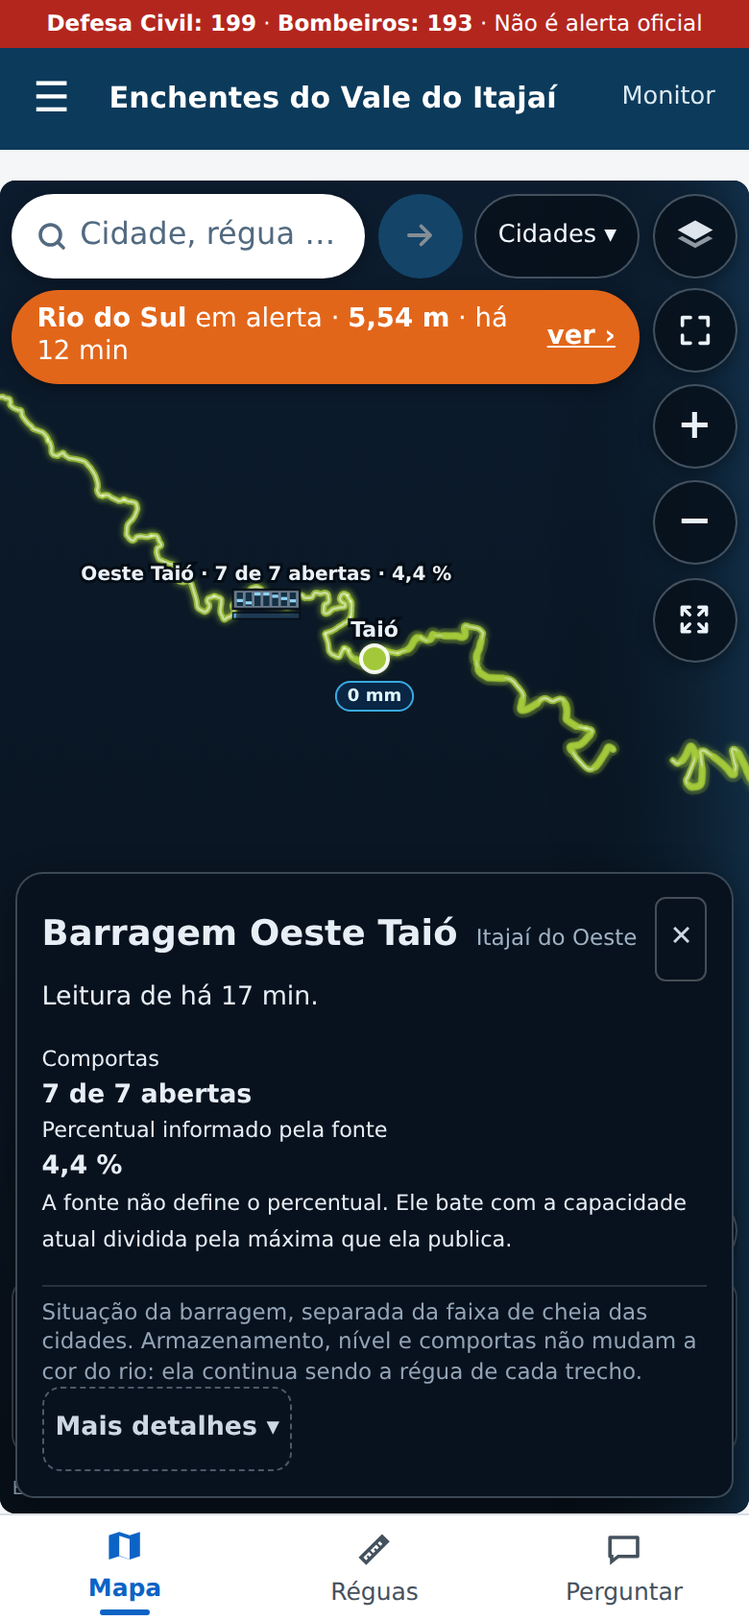
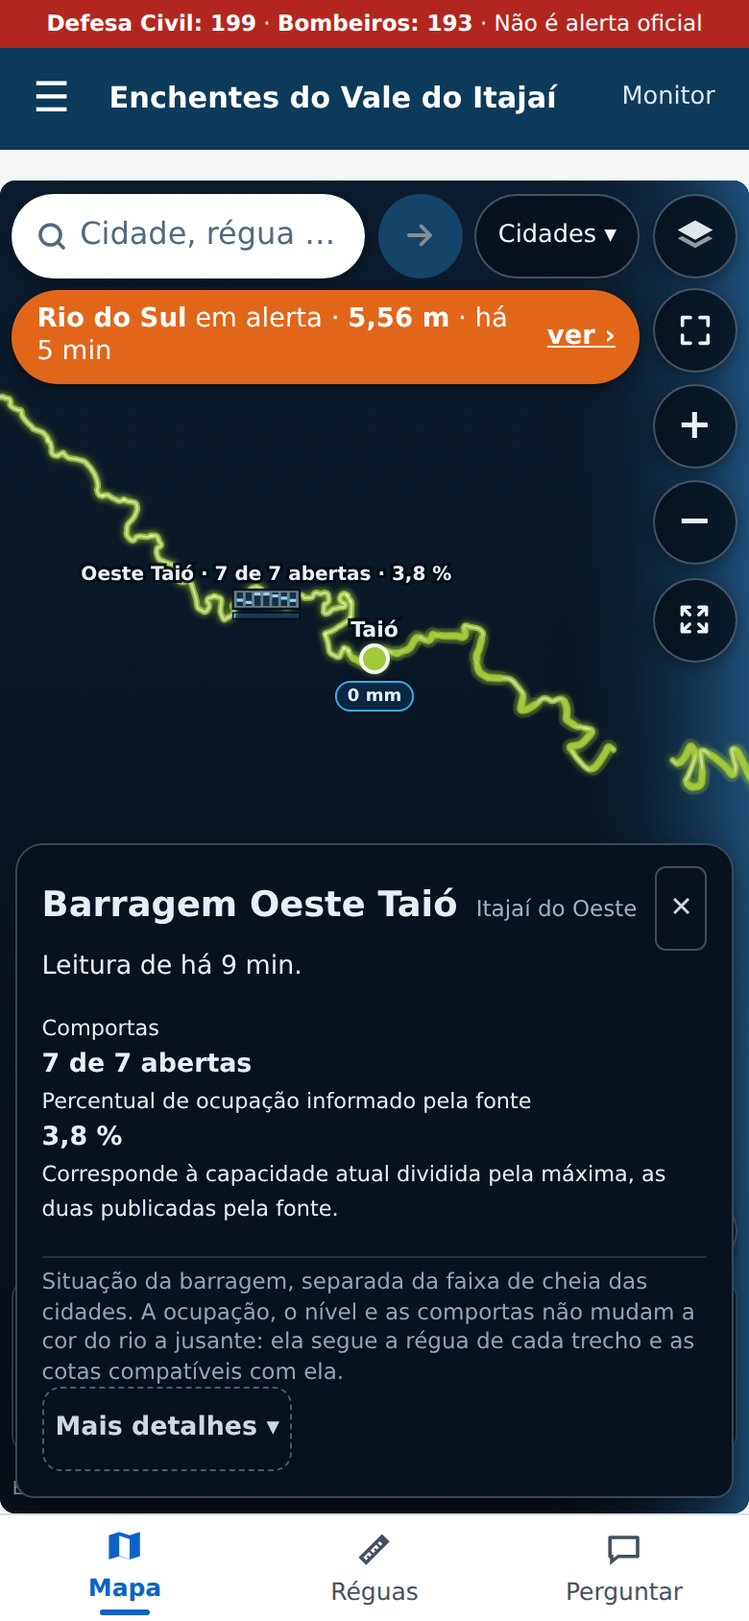
Ajusta os nomes e as ausências do painel das barragens
Percentual de ocupação informado pela fonte (atual ÷ máxima), unidade não
informada, vazões não publicadas, número a jusante sem valor e fora da
classificação, Barragem Norte com dados indisponíveis nesta fonte e
escala azul identificada como informativa. Mesmo nome no cartão Agora e
no chat.

Claude-Session: https://claude.ai/code/session_01V7T8VyjRUeTfNsbRup6EeT

diff --git a/web/src/telas/MonitorBacia.tsx b/web/src/telas/MonitorBacia.tsx
@@ -46,7 +46,7 @@ import { leiturasDaCidade, useTempoReal } from '../dados/tempoReal'
 import { useNivelSc } from '../dados/nivelSc'
 import { useClassificacao } from '../dados/classificacao'
 import { useBarragens } from '../dados/barragens'
-import { AZUL_CHEIO, AZUL_VAZIO, barragensNoMapa, fichaDaBarragem } from '../logica/barragensNoMapa'
+import { AZUL_CHEIO, AZUL_VAZIO, barragensNoMapa, fichaDaBarragem, ROTULO_PERCENTUAL } from '../logica/barragensNoMapa'
 import { leituraEm, serieDaCidade, useSerieRecente } from '../dados/serie'
 import { deBrasilia, idadeMin, textoIdade, type Faixa, frescor, frescorDaCidade } from '../logica/tempoReal'
 import { ROTULO_FAIXA, ACAO_FAIXA } from '../componentes/LegendaFaixas'
@@ -1560,7 +1560,12 @@ export default function MonitorBacia({ municipal = false }: { municipal?: boolea
                 operacionais oficiais; não é grau de cheia e não pinta o rio. */}
             <li>
               <span className={estilos.amostra} style={{ background: `linear-gradient(90deg, ${AZUL_CHEIO} 60%, ${AZUL_VAZIO} 60%)` }} />
-              Barragem: % informado pela fonte (escala própria, não é faixa de cheia)
+              Barragem: ocupação informada pela fonte — escala informativa, sem faixas oficiais; não é faixa de cheia
+            </li>
+            {/* A Norte não está na fonte e o cadastro não tem coordenada dela: sem marcador, só esta linha. */}
+            <li>
+              <span className={estilos.amostra} style={{ background: AZUL_VAZIO }} />
+              Barragem Norte (José Boiteux): dados indisponíveis nesta fonte
             </li>
             {/* O violeta estava no mapa sem entrada aqui: uma cor com
                 significado e sem explicação. Fica FORA da escala de faixas de
@@ -1852,8 +1857,8 @@ export default function MonitorBacia({ municipal = false }: { municipal?: boolea
                 <svg viewBox="0 0 24 24" width="22" height="22"><rect x="3" y="6" width="18" height="7" rx="1" fill="none" stroke="currentColor" strokeWidth="2" /><rect x="3" y="16" width="11" height="3" fill="currentColor" /><rect x="3" y="16" width="18" height="3" fill="none" stroke="currentColor" strokeWidth="1" /></svg>
               </span>
               <label className={estilos.textoCamada} htmlFor="interruptor-armazenamento">
-                <strong>Barragens: armazenamento</strong>
-                <small>% informado pela fonte, em azul; toque na barragem para os detalhes</small>
+                <strong>Barragens: ocupação</strong>
+                <small>Escala informativa, em azul, sem faixas oficiais; toque na barragem para os detalhes</small>
               </label>
               <input id="interruptor-armazenamento" className={estilos.interruptor} type="checkbox" role="switch" checked={mostrarArmazenamento} onChange={(e) => setMostrarArmazenamento(e.target.checked)} />
             </div>
@@ -2228,7 +2233,7 @@ export default function MonitorBacia({ municipal = false }: { municipal?: boolea
           const b = barragensDoMapa.find((x) => x.nome === barragemSel)
           if (!b) return null
           const ficha = fichaDaBarragem(b)
-          const linhas = barragemExpandida ? ficha.linhas : ficha.linhas.filter((l) => l.rotulo === 'Comportas' || l.rotulo === 'Percentual informado pela fonte')
+          const linhas = barragemExpandida ? ficha.linhas : ficha.linhas.filter((l) => l.rotulo === 'Comportas' || l.rotulo === ROTULO_PERCENTUAL)
           return (
             <div className={estilos.painel} data-tapa-mapa>
               <div className={estilos.painelTopo}>
@@ -2249,8 +2254,8 @@ export default function MonitorBacia({ municipal = false }: { municipal?: boolea
                 ))}
               </dl>
               <p className={estilos.painelRessalva}>
-                Situação da barragem, separada da faixa de cheia das cidades. Armazenamento, nível e comportas não
-                mudam a cor do rio: ela continua sendo a régua de cada trecho.
+                Situação da barragem, separada da faixa de cheia das cidades. A ocupação, o nível e as comportas não
+                mudam a cor do rio a jusante: ela segue a régua de cada trecho e as cotas compatíveis com ela.
               </p>
               <button type="button" className={estilos.botaoMais} aria-expanded={barragemExpandida} onClick={() => setBarragemExpandida((v) => !v)}>
                 {barragemExpandida ? 'Menos detalhes ▴' : 'Mais detalhes ▾'}

diff --git a/web/src/logica/barragensNoMapa.test.ts b/web/src/logica/barragensNoMapa.test.ts
@@ -109,7 +109,7 @@ test('funciona com um Map (como o hook devolve) e com N barragens, não só duas
 
 // --- Painel do toque e armazenamento (07/10/2026) -------------------------------------------------------------
 
-import { fichaDaBarragem, textoPercentual } from './barragensNoMapa'
+import { fichaDaBarragem, ROTULO_PERCENTUAL, textoPercentual } from './barragensNoMapa'
 import { montarBarragens } from '../dados/barragens'
 
 /** O corpo publicado às 19h38 de 07/10/2026 (Oeste), pelo mesmo leitor do site. */
@@ -131,13 +131,18 @@ test('o painel mostra o que a fonte publica e "não informado" no resto — nunc
   const f = fichaDaBarragem(b!)
   assert.match(f.situacao, /há 12 min/)
   assert.equal(linha(f, 'Comportas').valor, '7 de 7 abertas')
-  assert.equal(linha(f, 'Percentual informado pela fonte').valor, '4,5 %')
+  assert.equal(ROTULO_PERCENTUAL, 'Percentual de ocupação informado pela fonte')
+  assert.equal(linha(f, ROTULO_PERCENTUAL).valor, '4,5 %')
   assert.equal(linha(f, 'Nível na régua da barragem').valor, '8,97 m')
   assert.match(linha(f, 'Nível na régua da barragem').nota!, /339 m de altitude/)
   assert.match(linha(f, 'Nível na régua da barragem').nota!, /Não se compara com régua de rio/)
-  assert.match(linha(f, 'Capacidade atual / máxima').nota!, /não informa a unidade/)
-  assert.equal(linha(f, 'Vazão de entrada e de saída').valor, null, 'vazão não publicada virou número')
-  assert.equal(linha(f, 'Nível a jusante').valor, null, 'jusante sem referência virou número')
+  assert.match(linha(f, 'Capacidade atual / máxima').nota!, /Unidade não informada/)
+  assert.doesNotMatch(JSON.stringify(f), /m³|hm³|volume útil/, 'unidade ou nome presumido')
+  assert.match(linha(f, ROTULO_PERCENTUAL).nota!, /capacidade atual dividida pela máxima/)
+  assert.equal(linha(f, 'Vazão de entrada e de saída').valor, 'Não publicadas', 'vazão não publicada virou número')
+  assert.equal(linha(f, 'Nível a jusante').valor, 'Sem referência da medição', 'jusante sem referência virou número')
+  assert.doesNotMatch(JSON.stringify(f), /5,14/, 'o número a jusante vazou')
+  assert.match(linha(f, 'Nível a jusante').nota!, /não é usado para classificar/)
   assert.match(linha(f, 'Medido em').valor!, /07\/10\/2026.*19:38.*Brasília/)
   assert.match(linha(f, 'Fonte').valor!, /asthon/)
 })
@@ -153,8 +158,8 @@ test('campo ausente é "não informado"; percentual implausível diz o que veio'
   const [b] = barragensNoMapa([crua], new Date(), 'bacia')
   const f = fichaDaBarragem(b!)
   assert.equal(f.situacao, 'Leitura sem horário: estado não confirmado.')
-  assert.equal(linha(f, 'Percentual informado pela fonte').valor, null)
-  assert.match(linha(f, 'Percentual informado pela fonte').nota!, /812 %, valor implausível/)
+  assert.equal(linha(f, ROTULO_PERCENTUAL).valor, null)
+  assert.match(linha(f, ROTULO_PERCENTUAL).nota!, /812 %, valor implausível/)
   assert.equal(linha(f, 'Nível na régua da barragem').valor, null)
   assert.equal(linha(f, 'Capacidade atual / máxima').valor, null)
   assert.equal(linha(f, 'Fonte').valor, null)
@@ -163,7 +168,7 @@ test('campo ausente é "não informado"; percentual implausível diz o que veio'
 test('acima de 100 %: o valor real e o aviso de que passa da capacidade máxima publicada', () => {
   const crua = montarBarragens({ barragens: [{ nome: 'Z', lat: -27.1, lon: -50, comportas_abertas: 1, comportas_total: 3, percent_use: 104.2 }] }).get('Z')!
   const [b] = barragensNoMapa([crua], new Date(), 'bacia')
-  const p = linha(fichaDaBarragem(b!), 'Percentual informado pela fonte')
+  const p = linha(fichaDaBarragem(b!), ROTULO_PERCENTUAL)
   assert.equal(p.valor, '104 %')
   assert.match(p.nota!, /acima da capacidade máxima publicada/)
   assert.equal(textoPercentual(4.49), '4,5 %')

diff --git a/web/src/logica/barragensNoMapa.ts b/web/src/logica/barragensNoMapa.ts
@@ -158,6 +158,9 @@ export function textoPercentual(p: number): string {
   return `${numero(p, p < 10 ? 1 : 0)} %`
 }
 
+/** Rótulo do percentual: o nome é de ocupação, nunca "volume útil" (a fonte não define o denominador assim). */
+export const ROTULO_PERCENTUAL = 'Percentual de ocupação informado pela fonte'
+
 /** Uma linha do painel da barragem. `valor` null = "não informado". */
 export interface LinhaDaBarragem {
   rotulo: string
@@ -190,14 +193,14 @@ export function fichaDaBarragem(b: BarragemNoMapa): { situacao: string; linhas: 
     : { rotulo: 'Nível na régua da barragem', valor: null, nota: 'Sem a referência da régua coerente na fonte.' }
   const percentual: LinhaDaBarragem = b.percentUso != null
     ? {
-        rotulo: 'Percentual informado pela fonte',
+        rotulo: ROTULO_PERCENTUAL,
         valor: textoPercentual(b.percentUso),
-        nota: 'A fonte não define o percentual. Ele bate com a capacidade atual dividida pela máxima que ela publica' +
+        nota: 'Corresponde à capacidade atual dividida pela máxima, as duas publicadas pela fonte' +
           (b.percentDivergenciaPp ? ` (diferença de ${numero(Math.abs(b.percentDivergenciaPp), 2)} ponto percentual)` : '') +
           (b.percentUso > 100 ? '. Acima de 100 %: acima da capacidade máxima publicada.' : '.'),
       }
     : {
-        rotulo: 'Percentual informado pela fonte',
+        rotulo: ROTULO_PERCENTUAL,
         valor: null,
         nota: b.percentPublicado != null ? `A fonte publicou ${numero(b.percentPublicado, 0)} %, valor implausível.` : undefined,
       }
@@ -205,7 +208,7 @@ export function fichaDaBarragem(b: BarragemNoMapa): { situacao: string; linhas: 
     ? {
         rotulo: 'Capacidade atual / máxima',
         valor: `${numero(b.capacidadeAtual, 1)} de ${numero(b.capacidadeMaxima, 1)}`,
-        nota: 'A fonte não informa a unidade.',
+        nota: 'Unidade não informada.',
       }
     : { rotulo: 'Capacidade atual / máxima', valor: null }
   return {
@@ -215,8 +218,13 @@ export function fichaDaBarragem(b: BarragemNoMapa): { situacao: string; linhas: 
       percentual,
       nivel,
       capacidade,
-      { rotulo: 'Vazão de entrada e de saída', valor: null },
-      { rotulo: 'Nível a jusante', valor: null, nota: 'A fonte publica um número sem referência identificada; ele não é mostrado.' },
+      // Vazão: a fonte não publica. Nunca zero (o `vertido_bruto` vem 0 com as comportas abertas).
+      { rotulo: 'Vazão de entrada e de saída', valor: 'Não publicadas' },
+      {
+        rotulo: 'Nível a jusante',
+        valor: 'Sem referência da medição',
+        nota: 'A fonte publica um número, mas sem a referência dele. Ele não aparece e não é usado para classificar o rio.',
+      },
       { rotulo: 'Medido em', valor: quando },
       { rotulo: 'Fonte', valor: b.fonte ?? null },
     ],

diff --git a/web/src/logica/barragensNaCena.test.ts b/web/src/logica/barragensNaCena.test.ts
@@ -29,7 +29,7 @@ function barragens(percent: number, abertas: number) {
   return barragensNoMapa(montarBarragens({
     barragens: [{
       nome: 'Barragem Oeste Taió', lat: -27.1, lon: -50.0, medido_em: '2026-10-07T19:40:00',
-      altitude_montante_m: 347.97, nivel_na_regua_da_barragem_m: 8.97, zero_da_regua_m: 339,
+      altitude_montante_m: 347.97, nivel_na_regua_da_barragem_m: 8.97, zero_da_regua_m: 339, jusante_m: 5.14,
       percent_use: percent, comportas_abertas: abertas, comportas_total: 7,
       comportas: Array.from({ length: 7 }, (_, i) => ({ nome: `C${i + 1}`, aberta: i < abertas })),
     }],
@@ -50,7 +50,7 @@ function ctxFalso() {
   return ctx as unknown as CanvasRenderingContext2D & { textos: string[] }
 }
 
-test('armazenamento, nível e comportas não mudam a cor do rio', () => {
+test('ocupação, nível, comportas e o número a jusante não mudam a cor do rio', () => {
   const cena = construirCena(el, [rio], tempoReal, agora, 800, 600, null)
   const antes = JSON.stringify(cena.trechos.map((t) => [t.faixa, t.cidadeId, t.animacao]))
   for (const [p, a] of [[0, 0], [50, 3], [104, 7]] as const) {
@@ -66,7 +66,7 @@ test('o rótulo leva o percentual real, nunca o nível em metros', () => {
   desenharBarragens(ctx, cena, barragens(104.2, 7), 1, 1, [], true)
   assert.equal(ctx.textos.length, 1)
   assert.match(ctx.textos[0]!, /104 %/, 'acima de 100 foi cortado')
-  assert.doesNotMatch(ctx.textos[0]!, /8,97|347|339/)
+  assert.doesNotMatch(ctx.textos[0]!, /8,97|347|339|5,14/)
   // Camada desligada: sem percentual no rótulo.
   const sem = ctxFalso()
   desenharBarragens(sem, cena, barragens(104.2, 7), 1, 1, [], false)

diff --git a/web/src/comandos/quinta.test.ts b/web/src/comandos/quinta.test.ts
@@ -81,7 +81,7 @@ test('chuva: os pluviômetros de leitura recente, do mais chuvoso para o menos; 
 test('barragens: comportas e uso como a fonte publica, nunca o nível em metros nem veredito', () => {
   const b = (nome: string, abertas: number, min: number, uso: number | null): Barragem => ({ nome, rio: null, abertas, total: 7, fechadas: [], percentUso: uso, medidoEm: minAtras(min), lat: null, lon: null })
   const t = textoBarragens(new Map([['o', b('Barragem Oeste Taió', 0, 20, 12.5)], ['s', b('Barragem Sul Ituporanga', 7, 200, null)]]), AGORA)
-  assert.match(t, /Barragem Oeste Taió: comportas 7 de 7 fechadas · 12,5% de uso do reservatório, como a fonte publica, às 14:40/)
+  assert.match(t, /Barragem Oeste Taió: comportas 7 de 7 fechadas · 12,5% de ocupação, como a fonte publica, às 14:40/)
   assert.match(t, /Barragem Sul Ituporanga: comportas 7 de 7 abertas, às 11:40 de 06\/10 \(há 3 h 20\) — pode ter mudado desde então/)
   assert.match(t, /não diz se a cheia já passou/)
   assert.ok(!/\d,\d\d m\b/.test(t), 'nenhum nível em metros')

diff --git a/web/src/comandos/bacia.ts b/web/src/comandos/bacia.ts
@@ -79,7 +79,7 @@ export function textoBarragens(barragens: ReadonlyMap<string, Barragem>, agora: 
   const linhas = [...barragens.values()]
     .sort((a, b) => a.nome.localeCompare(b.nome, 'pt-BR'))
     .map((b) => {
-      const uso = b.percentUso != null ? ` · ${b.percentUso.toLocaleString('pt-BR', { maximumFractionDigits: 1 })}% de uso do reservatório, como a fonte publica` : ''
+      const uso = b.percentUso != null ? ` · ${b.percentUso.toLocaleString('pt-BR', { maximumFractionDigits: 1 })}% de ocupação, como a fonte publica` : ''
       const hora = b.medidoEm ? `, ${quando(b.medidoEm, agora)}` : ', sem horário publicado'
       const velha = !b.medidoEm || idadeMin(b.medidoEm, agora) > BARRAGEM_FRESCA_MIN ? ' — pode ter mudado desde então' : ''
       return `${b.nome}: comportas ${rotuloComportas(b)}${uso}${hora}${velha}.`

diff --git a/web/src/componentes/EstadoDasBarragens.tsx b/web/src/componentes/EstadoDasBarragens.tsx
@@ -94,7 +94,7 @@ export default function EstadoDasBarragens({
 
             {b.percentUso !== null ? (
               <span className={estilos.capacidade}>
-                percentual informado pela fonte: <strong>{b.percentUso.toFixed(0)}%</strong>
+                percentual de ocupação informado pela fonte: <strong>{b.percentUso.toFixed(0)}%</strong>
               </span>
             ) : null}
           </div>

diff --git a/docs/BARRAGENS-NO-MONITOR.md b/docs/BARRAGENS-NO-MONITOR.md
@@ -8,14 +8,14 @@ cidade e régua, está em `docs/VINCULOS-DOS-TRACADOS.md`.
 | Antes | Agora |
 |---|---|
 | O marcador da barragem mostrava só as comportas (parede de aço, animação de operação). | Continua igual. Embaixo dele há uma **barra azul** com o percentual informado pela fonte, e o rótulo termina em `· 4,4 %`. |
-| Não dava para tocar na barragem. | O toque abre um **painel compacto** (comportas e percentual). Em **Mais detalhes** aparece tudo o que a fonte publica, e o que ela não publica sai como **"não informado"**. |
+| Não dava para tocar na barragem. | O toque abre um **painel compacto** (comportas e "Percentual de ocupação informado pela fonte"). Em **Mais detalhes** aparece tudo o que a fonte publica; vazões saem **"Não publicadas"** (nunca zero) e o número a jusante sai **"Sem referência da medição"**, sem o valor. |
 | O percentual acima de 100 % sumia (o leitor aceitava só 0–100). | Sai o **valor real**, com a nota "acima da capacidade máxima publicada". Só acima de 200 % o valor é tratado como implausível: vira `null`, e o valor cru fica em `percentPublicado`. |
 | O nível da barragem não saía do módulo. | Sai **só no painel expandido** e sempre com a referência: "Régua própria da barragem: o zero fica a 339 m de altitude…" e "Não se compara com régua de rio nem com a outra barragem". Sem altitude e zero coerentes (régua = altitude − zero, folga de 5 cm), ele não sai. |
-| Camadas: não havia controle para as barragens. | Interruptor **"Barragens: armazenamento"** (`interruptor-armazenamento`) e item na legenda: "Barragem: % informado pela fonte (escala própria, não é faixa de cheia)". |
-| Cartão "Agora" (Taió, Ituporanga, Rio do Sul): "reservatório em X % da capacidade". | "percentual informado pela fonte: X %". |
+| Camadas: não havia controle para as barragens. | Interruptor **"Barragens: ocupação"** (`interruptor-armazenamento`) e itens na legenda: "Barragem: ocupação informada pela fonte — escala informativa, sem faixas oficiais; não é faixa de cheia" e "Barragem Norte (José Boiteux): dados indisponíveis nesta fonte". |
+| Cartão "Agora" (Taió, Ituporanga, Rio do Sul): "reservatório em X % da capacidade". Chat: "X % de uso do reservatório". | Cartão: "percentual de ocupação informado pela fonte: X %". Chat: "X % de ocupação, como a fonte publica". |
 
 **O que não muda:**
-- a **cor do rio** continua sendo a da régua de cada trecho. Percentual, nível e comportas não entram na classificação (teste `logica/barragensNaCena.test.ts`);
+- a **cor do rio a jusante** continua sendo a da régua de cada trecho, com as cotas compatíveis com ela. Ocupação, nível, comportas e o número a jusante não entram na classificação (teste `logica/barragensNaCena.test.ts`);
 - a animação das comportas segue a regra de antes: estado conhecido, leitura fresca (≤ 60 min) e respeito ao "reduzir movimento";
 - o percentual **não** controla velocidade de nada.
 
@@ -27,22 +27,22 @@ de 07/10/2026 20:08 (Brasília).
 
 | Campo | Oeste (Taió) | Sul (Ituporanga) | Norte (José Boiteux) | No painel |
 |---|---|---|---|---|
-| Publicada pela fonte | sim | sim | **não**: lista vazia para Ibirama (4207106) e Blumenau (4202404) em 05/09/2026 | Norte fora do mapa e do painel |
+| Publicada pela fonte | sim | sim | **não**: lista vazia para Ibirama (4207106) e Blumenau (4202404) em 05/09/2026 | Norte: "dados indisponíveis nesta fonte", na legenda. Sem marcador, porque nenhum arquivo do repositório tem a coordenada dela (`hidraulica.json` só traz o município) |
 | Coordenada | −27,0974, −50,0388 | −27,5039, −49,5536 | — | marcador |
 | Nível na régua da barragem | 8,93 m | 20,52 m | — | "Nível na régua da barragem" com zero e altitude |
 | Zero da régua | 339 m | 370 m | — | na nota do nível |
 | Altitude da superfície (`altitude_montante_m`) | 347,93 m | 390,52 m | — | na nota do nível, em metros acima do nível do mar |
 | Coerência régua = altitude − zero | exata | exata | — | condição para mostrar o nível |
-| `percent_use` | 4,40 % | 25,09 % | — | "Percentual informado pela fonte" |
-| Definição do percentual | a fonte **não define** | idem | — | nota: "Ele bate com a capacidade atual dividida pela máxima que ela publica" |
+| `percent_use` | 4,40 % | 25,09 % | — | "Percentual de ocupação informado pela fonte" |
+| Definição do percentual | a fonte **não define** | idem | — | nota: "Corresponde à capacidade atual dividida pela máxima, as duas publicadas pela fonte". Nunca "volume útil" |
 | atual ÷ máxima × 100 | 4,40 (diferença 0,00 pp) | 25,00 (diferença 0,09 pp) | — | a nota traz a diferença em pp quando ela não é zero |
-| Capacidade atual / máxima | 4,40 / 99,96 | 26,01 / 104,03 | — | "Capacidade atual / máxima", com "A fonte não informa a unidade" |
-| Vazão de entrada | não publicada | não publicada | — | "não informado" |
-| Vazão de saída | não publicada (`vertido_bruto` = 0 com 12 comportas abertas: **não é** vazão) | idem | — | "não informado" |
-| Nível a jusante (`jusante_m`) | 5,12 | 141,54 | — | "não informado", com a nota de que a fonte publica um número **sem referência identificada** (as duas grandezas não batem entre si) |
+| Capacidade atual / máxima | 4,40 / 99,96 | 26,01 / 104,03 | — | "Capacidade atual / máxima", com "Unidade não informada" (nada de m³ presumido) |
+| Vazão de entrada | não publicada | não publicada | — | "Não publicadas" |
+| Vazão de saída | não publicada (`vertido_bruto` = 0 com 12 comportas abertas: **não é** vazão) | idem | — | "Não publicadas" (nunca zero) |
+| Nível a jusante (`jusante_m`) | 5,12 | 141,54 | — | "Sem referência da medição", sem o número, com a nota de que ele não é usado para classificar o rio (as duas grandezas não batem entre si) |
 | Comportas | 7 de 7 abertas | 5 de 5 abertas | — | "Comportas", contadas pela lista (sem o campo `aberta` = fechada) |
 | Horário | `measured_at` UTC, convertido para Brasília | idem | — | "Medido em" (data e hora de Brasília) e "Leitura de há N min" |
-| Faixas operacionais oficiais | **nenhuma tabela** no repositório | nenhuma | — | sem categorias: só número e barra azul |
+| Faixas operacionais oficiais | **nenhuma tabela** no repositório | nenhuma | — | sem categorias: só número e barra azul, identificada como escala informativa |
 
 **Pendências de dados**, que não se resolvem no código:
 1. **Barragem Norte:** nenhuma fonte pública conhecida publica comportas ou armazenamento.
@@ -55,6 +55,7 @@ de 07/10/2026 20:08 (Brasília).
 
 ## Escala própria
 
+- Escala **informativa** de ocupação, sem faixas oficiais e sem rótulos de atenção, alerta ou emergência.
 - Barra horizontal sob o marcador: trilho `rgba(70,120,170,0.35)` e preenchimento `rgb(90,170,240)` (`AZUL_VAZIO` e `AZUL_CHEIO` em `logica/barragensNoMapa.ts`). É azul de propósito, porque não é cor de faixa.
 - 0 a 100 % enche a barra. Acima de 100 %, a barra fica cheia com um traço extra na ponta, e o número mostra o valor real.
 - Leitura velha (> 60 min): a barra fica com opacidade 0,5, o painel diz "Leitura antiga (há N h): pode ter mudado desde então" e a animação para. Sem horário: "Leitura sem horário: estado não confirmado".
@@ -73,3 +74,4 @@ de 07/10/2026 20:08 (Brasília).
 `docs/prints/barragens-2026-10-07/`:
 - `barr-compacto.png`: toque na Barragem Oeste, no celular;
 - `barr-expandido.png`: o mesmo painel em "Mais detalhes".
+- `barr-leitura-antiga.png`: a mesma barragem com leitura de 3 h 38. O painel diz "Leitura antiga", o rótulo diz "sem leitura fresca" e o rio fica cinza.

diff --git a/CLAUDE.md b/CLAUDE.md
@@ -171,16 +171,19 @@ Os JSONs em `data/` são a **fonte de verdade**. O site lê deles; scripts escre
   `docs/AUDITORIA-REGUAS-2026-10-06.md`.
 
 ### Barragens no Monitor — REGRA (07/10/2026, com `monitor-autorizado`)
-- Toque no marcador abre o painel (compacto: comportas e percentual; "Mais detalhes": o resto). O que a fonte não
-  publica sai **"não informado"** (vazão, jusante sem referência, Barragem Norte). Auditoria em
+- Toque no marcador abre o painel (compacto: comportas e percentual; "Mais detalhes": o resto). Ajustes do Jefferson
+  (08/10/2026): vazões **"Não publicadas"** (nunca zero); capacidade com **"Unidade não informada"** (nada de m³);
+  número a jusante sem o valor, **fora de qualquer classificação** até ter a referência da medição; Barragem Norte
+  **"dados indisponíveis nesta fonte"**, na legenda (sem coordenada, sem marcador). Auditoria em
   `docs/BARRAGENS-NO-MONITOR.md`.
-- O percentual se chama **"percentual informado pela fonte"** (não "volume útil"), com escala **azul** própria. Sem
-  tabela oficial da barragem, nada de atenção, alerta ou emergência. Acima de 100 % sai o valor real; acima de 200 % é
-  implausível.
+- O percentual se chama **"Percentual de ocupação informado pela fonte"** e corresponde a atual ÷ máxima (nunca "volume
+  útil"). Escala **azul informativa**, sem faixas oficiais: nada de atenção, alerta ou emergência. Acima de 100 % sai
+  o valor real; acima de 200 % é implausível. Reservatório sem preenchimento até haver contorno confiável.
 - O nível da barragem só sai no painel, com zero e altitude coerentes (régua = altitude − zero) e o aviso de que não
   se compara com régua de rio. Nível nunca vira volume sem curva cota-volume.
-- **Barragem não pinta o rio.** Percentual, nível e comportas não mudam a classificação nem a correnteza
-  (`barragensNaCena.test.ts`). Polígono de reservatório só com geometria oficial, nunca buffer do rio.
+- **Barragem não pinta o rio.** Ocupação, nível e comportas não mudam a classificação nem a correnteza; o trecho a
+  jusante segue a própria régua e as cotas compatíveis com ela (`barragensNaCena.test.ts`). Polígono de reservatório
+  só com geometria oficial, nunca buffer do rio.
 
 ### Classificação estadual × municipal — REGRA (decisões de 07/10/2026)
 - Duas classificações **independentes** por cidade. O motor é `scripts/classificar_reguas.py`; o relatório está em

diff --git a/README.md b/README.md
@@ -481,8 +481,9 @@ o projeto.
 ## Pendências
 
 - [x] **Barragens no Monitor: painel e armazenamento em escala própria (07/10/2026, em PR, sem merge).** O toque no marcador
-  abre comportas e o percentual informado pela fonte; "Mais detalhes" mostra o nível na régua da barragem (com zero e
-  altitude), capacidade sem unidade, horário e fonte, e "não informado" para vazão e jusante. Barra azul sob o marcador,
+  abre comportas e o "Percentual de ocupação informado pela fonte" (atual ÷ máxima); "Mais detalhes" mostra o nível na
+  régua da barragem (com zero e altitude), capacidade com "Unidade não informada", horário e fonte, vazões "Não
+  publicadas" e o jusante sem número nem uso na classificação. Barragem Norte: "dados indisponíveis nesta fonte". Barra azul sob o marcador,
   interruptor em Camadas e legenda. Acima de 100 % sai o valor real. A cor do rio não muda. `docs/BARRAGENS-NO-MONITOR.md`.
   - [ ] **Ainda faltam na fonte:** Barragem Norte; unidade da capacidade; definição do percentual; vazão de entrada e
     saída; referência do `jusante_m`; faixas operacionais oficiais por barragem.
